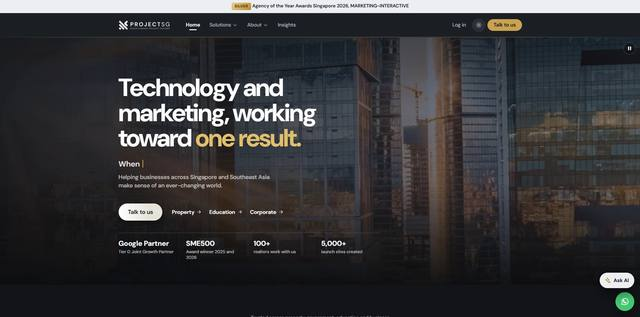
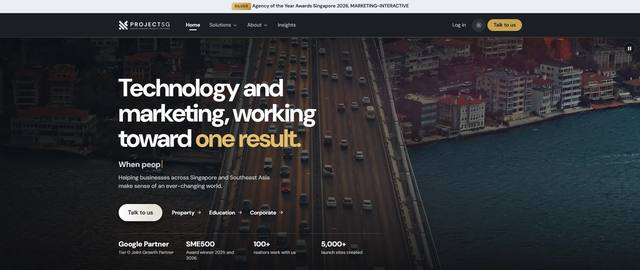
feat(portfolio): new project.sg backdrop; lighter outline colour on the card URLs
The Multi-tenant card uses the new project.sg screenshot (browser chrome, scrollbar and floating
chat buttons cropped). In dark mode the URL outline is now a lighter blue-grey (52,66,122) instead
of black; light mode keeps white.

diff --git a/styles.css b/styles.css
@@ -220,8 +220,8 @@ button { font-family: inherit; }
 .project--glass .bullets, .project--glass header p { color: var(--text); opacity: .86; }
 .project--glass .chips li { background: color-mix(in srgb, var(--accent-soft) 86%, transparent); }
 /* the photo is dark, so a dark glass can be thinner and show more of the site */
-@media (prefers-color-scheme: dark) { :root:not([data-theme="light"]) .project--glass { --glass-a: 72%; --glass-b: 60%; --glass-blur: 3px; --glass-bright: .7; --tsh: rgba(0, 0, 0, .9); --glass-tshadow: 0 1px 2px rgba(0, 0, 0, .75), 0 0 10px rgba(0, 0, 0, .7), 0 0 22px rgba(0, 0, 0, .5); } }
-:root[data-theme="dark"] .project--glass { --glass-a: 72%; --glass-b: 60%; --glass-blur: 3px; --glass-bright: .7; --tsh: rgba(0, 0, 0, .9); --glass-tshadow: 0 1px 2px rgba(0, 0, 0, .75), 0 0 10px rgba(0, 0, 0, .7), 0 0 22px rgba(0, 0, 0, .5); }
+@media (prefers-color-scheme: dark) { :root:not([data-theme="light"]) .project--glass { --glass-a: 72%; --glass-b: 60%; --glass-blur: 3px; --glass-bright: .7; --tsh: rgba(52, 66, 122, .95); --glass-tshadow: 0 1px 2px rgba(0, 0, 0, .75), 0 0 10px rgba(0, 0, 0, .7), 0 0 22px rgba(0, 0, 0, .5); } }
+:root[data-theme="dark"] .project--glass { --glass-a: 72%; --glass-b: 60%; --glass-blur: 3px; --glass-bright: .7; --tsh: rgba(52, 66, 122, .95); --glass-tshadow: 0 1px 2px rgba(0, 0, 0, .75), 0 0 10px rgba(0, 0, 0, .7), 0 0 22px rgba(0, 0, 0, .5); }
 /* a card whose photo is dark and calm can show more of it */
 .project--glass.project--clear { --glass-a: 68%; --glass-b: 56%; --glass-blur: 1.5px; }
 @media (prefers-color-scheme: dark) { :root:not([data-theme="light"]) .project--glass.project--clear { --glass-a: 56%; --glass-b: 44%; --glass-blur: 1.5px; --glass-bright: .8; } }

diff --git a/index.html b/index.html
@@ -11,7 +11,7 @@
   <meta property="og:type" content="website">
   <link rel="icon" href="favicon.svg" type="image/svg+xml">
   <link rel="preload" as="image" type="image/avif" href="img/hero-800.avif" imagesrcset="img/hero-480.avif 480w, img/hero-800.avif 800w, img/hero-1000.avif 1000w" imagesizes="(min-width: 1152px) 1120px, 100vw" fetchpriority="high">
-  <link rel="stylesheet" href="styles.css?v=88">
+  <link rel="stylesheet" href="styles.css?v=90">
   <script>
     // Apply the saved theme before first paint to avoid a flash.
     try { var t = localStorage.getItem('theme'); if (t) document.documentElement.dataset.theme = t; } catch (e) {}
@@ -244,7 +244,7 @@
           <picture class="project__bg" aria-hidden="true">
             <source type="image/avif" srcset="img/projectsg-640.avif 640w, img/projectsg-960.avif 960w" sizes="(min-width: 900px) 560px, 100vw">
             <source type="image/webp" srcset="img/projectsg-640.webp 640w, img/projectsg-960.webp 960w" sizes="(min-width: 900px) 560px, 100vw">
-            <img src="img/projectsg-640.jpg" srcset="img/projectsg-640.jpg 640w, img/projectsg-960.jpg 960w" sizes="(min-width: 900px) 560px, 100vw" width="960" height="476" alt="" loading="lazy" decoding="async" draggable="false">
+            <img src="img/projectsg-640.jpg" srcset="img/projectsg-640.jpg 640w, img/projectsg-960.jpg 960w" sizes="(min-width: 900px) 560px, 100vw" width="960" height="404" alt="" loading="lazy" decoding="async" draggable="false">
           </picture>
           <span class="project__glass" aria-hidden="true"></span>
           <header>
